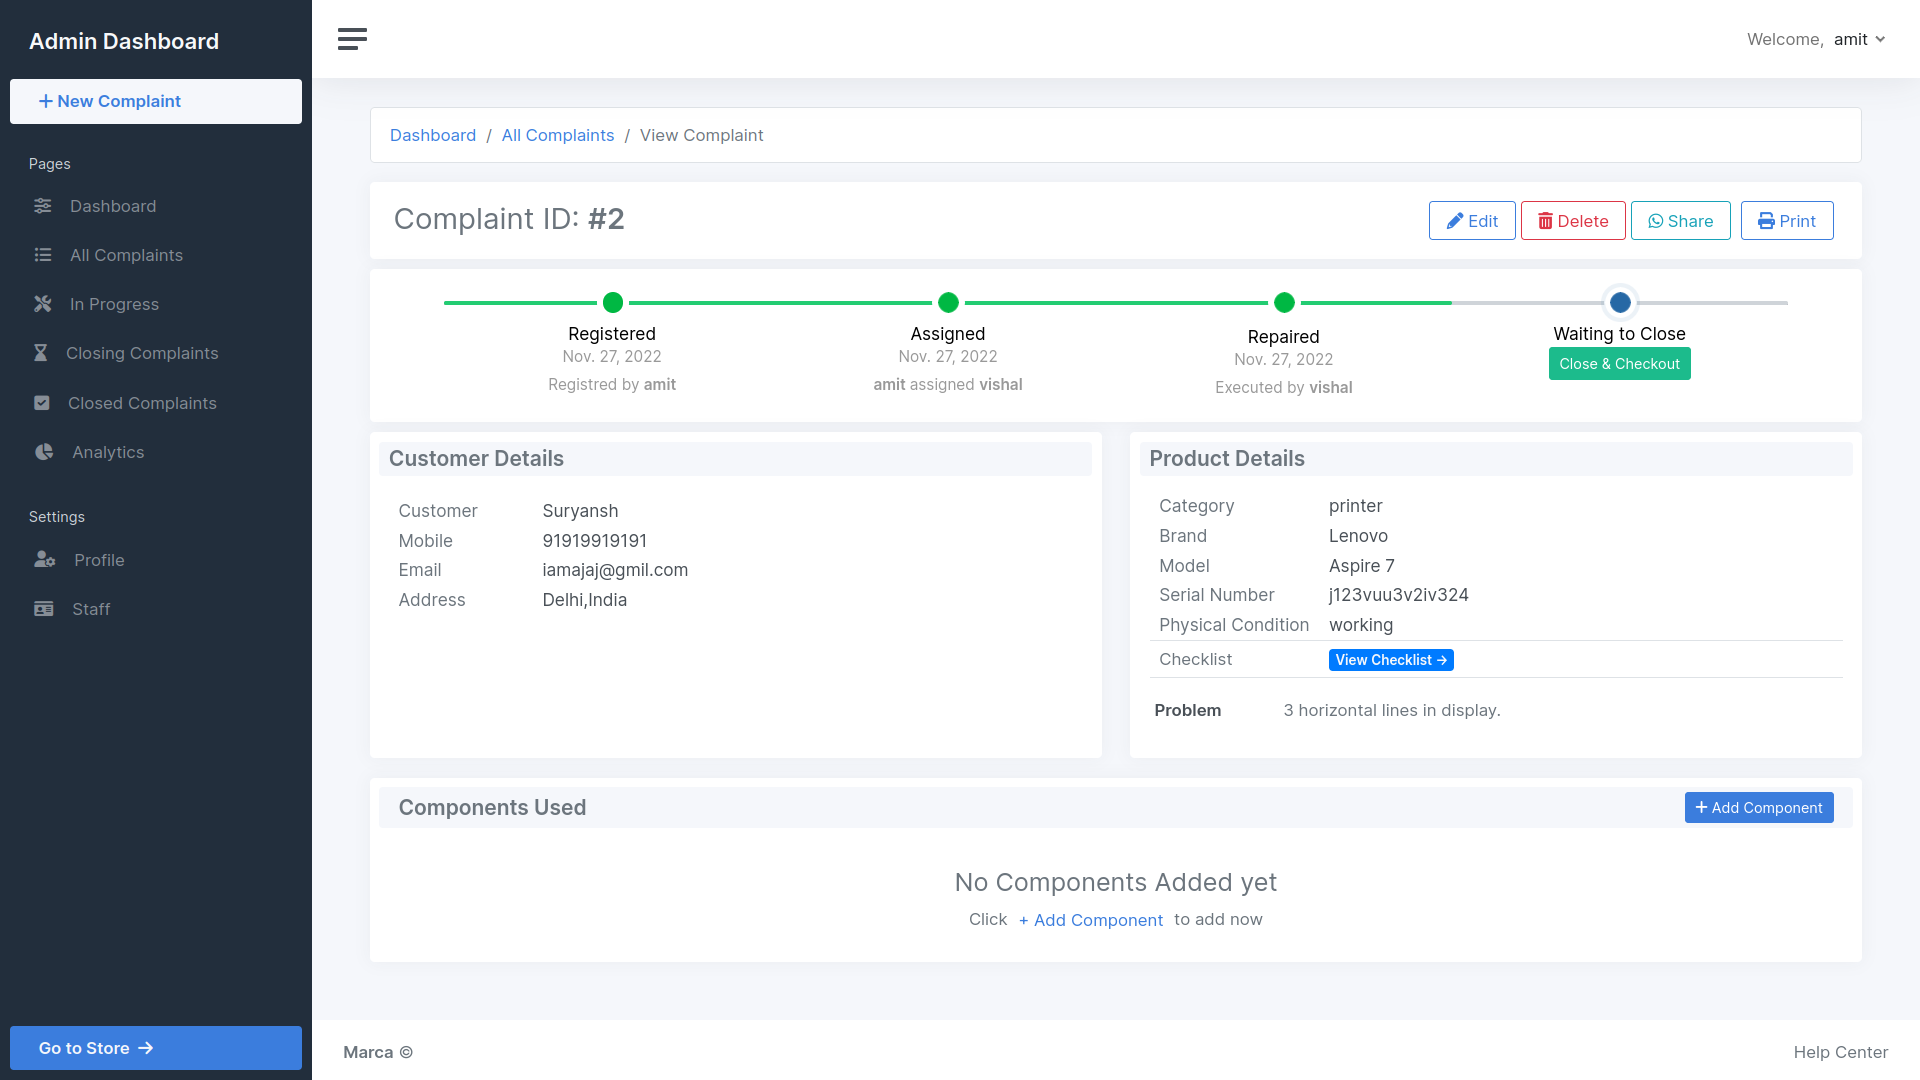
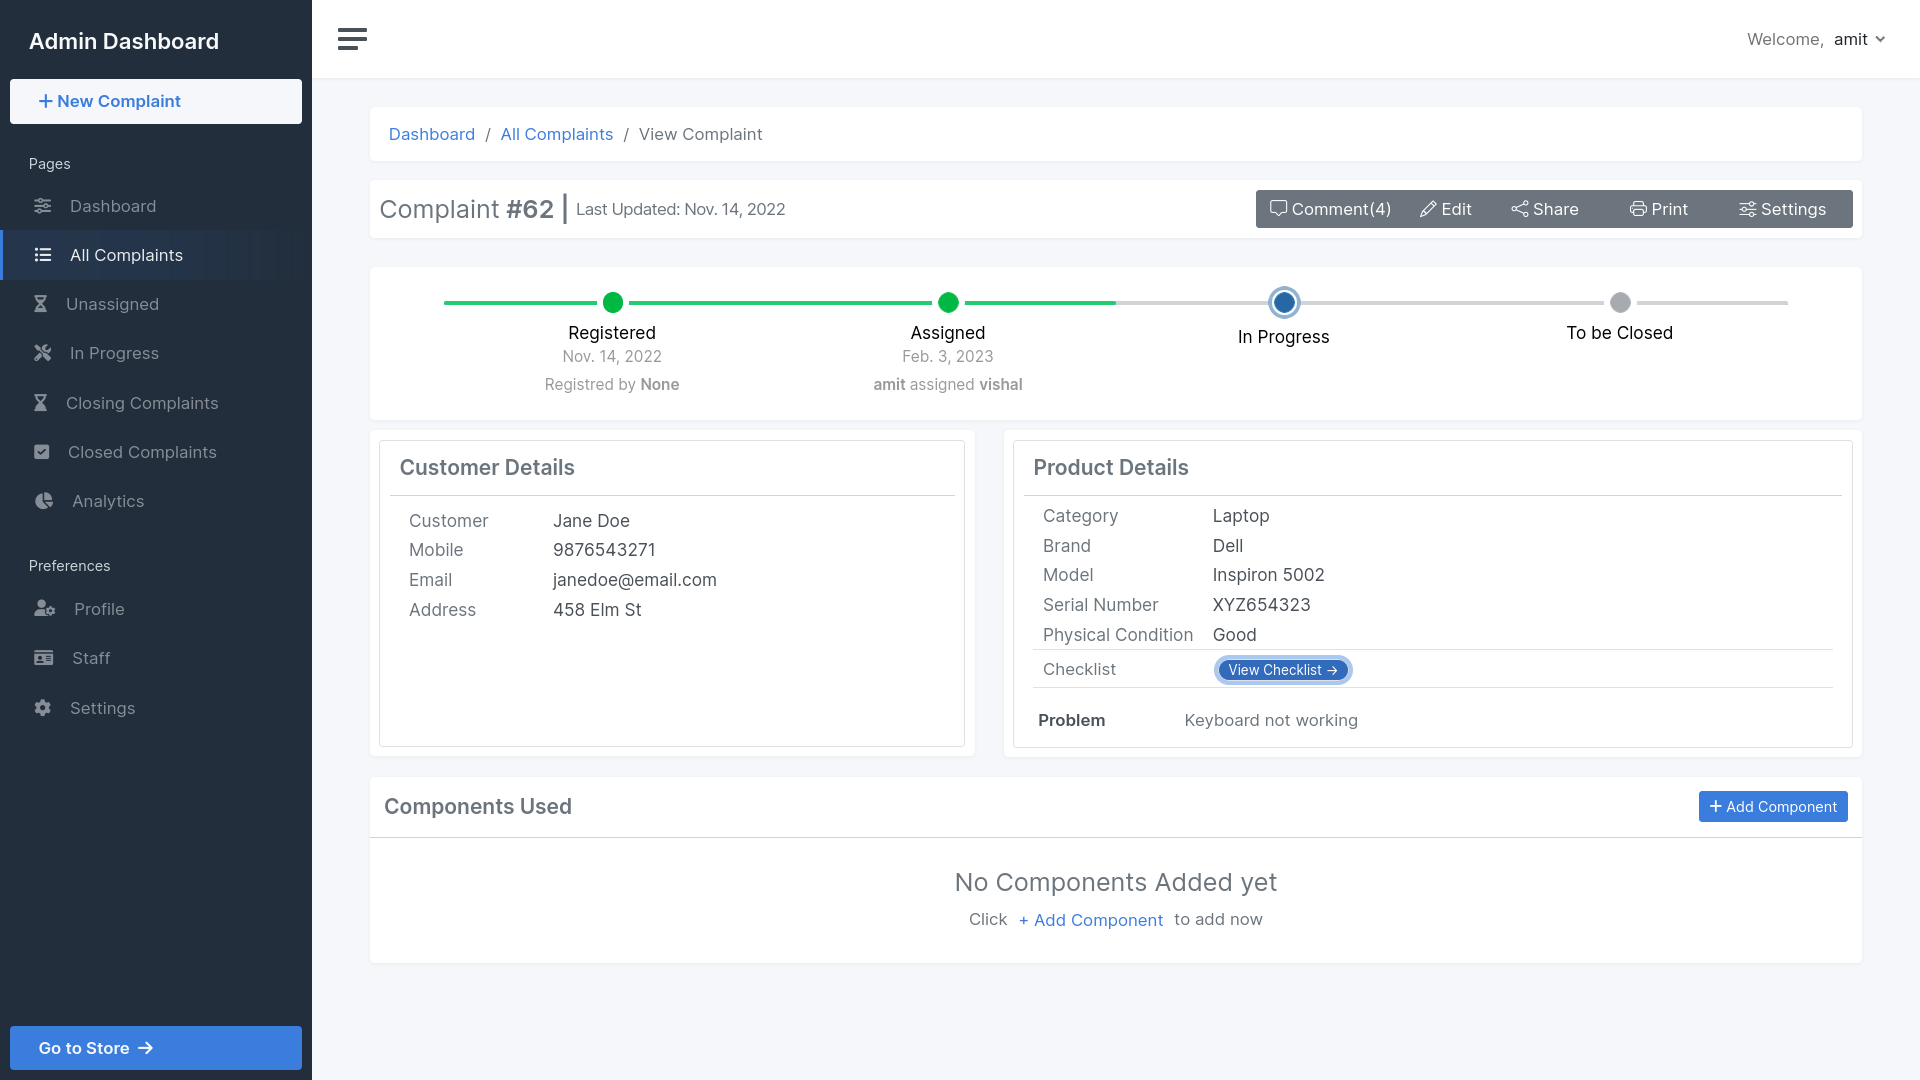
updated screenshots

diff --git a/README.md b/README.md
@@ -9,6 +9,7 @@
 - Isolated and personilized dashboards for each user.
 - Various authorizations based on user type.
 - Automatic complaints grouping based on stage(status) of the complaint.
+- Discuss/Comment on sepecfic complaint.
 - **Store Section** - Completly different space for management of components used in repairing (Accessible to Admin Only).
 - Product and sales analysis from **Store Dashboard**.
 - Complaints statstics from **Complaints Dashboard**.
@@ -22,28 +23,30 @@
 <small>Admin and Employee pages are nearly similar except for the dashboard and some superuser controls.</small>
 
 ###### Admin Dashboard
-<img src="https://github.com/amit9838/complaints-manager/blob/master/screenshots/dashboard_admin.png" width="720" height="380"/>
+<img src="https://github.com/amit9838/complaints-manager/blob/master/screenshots/dashboard_admin.png" width="724"/>
 
 #### View and control Complaints
 - Manage complaint status from a single page.
 - Control-options changes dynamically depending on stages of complaint.
-<img src="https://github.com/amit9838/complaints-manager/blob/master/screenshots/complaint_view_admin.png" width="720" height="380"/>
+<img src="https://github.com/amit9838/complaints-manager/blob/master/screenshots/complaint_view_admin.png" width="724" />
+- Complaint Settings
+<img src="https://github.com/amit9838/complaints-manager/blob/master/screenshots/complaint_settings.png" width="724" />
 
 ###### Staff
 - View and control staff activity.
-<img src="https://github.com/amit9838/complaints-manager/blob/master/screenshots/staff_admin.png" width="720" height="340"/>
+<img src="https://github.com/amit9838/complaints-manager/blob/master/screenshots/staff_admin.png" width="724" height="340"/>
 
 ###### Profile Page
 - View Profile of a user.
-<img src="https://github.com/amit9838/complaints-manager/blob/master/screenshots/view_profile.png" width="720" height="380"/>
+<img src="https://github.com/amit9838/complaints-manager/blob/master/screenshots/view_profile.png" width="724" />
 
 #### Store
 - Manage components(parts) which are to be used during repair of a product.
-<img src="https://github.com/amit9838/complaints-manager/blob/master/screenshots/store_admin.png" width="720" height="340"/>
+<img src="https://github.com/amit9838/complaints-manager/blob/master/screenshots/store_admin.png" width="724" height="340"/>
 
 #### Engineer
 - Complaints control center for engineer.
 - Only open and assigned complaints can be modified/accessed by engineer.
-<img src="https://github.com/amit9838/complaints-manager/blob/master/screenshots/view_complaint_engg.png" width="720" height="380"/>
+<img src="https://github.com/amit9838/complaints-manager/blob/master/screenshots/view_complaint_engg.png" width="720" />
 
 ### Thanks for Visiting!
